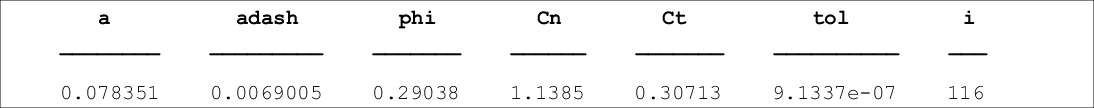
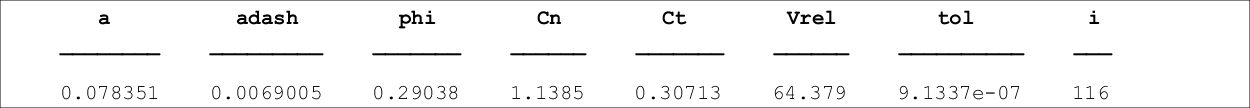
Add Vrel output to s1 testing

diff --git a/main.m b/main.m
@@ -31,9 +31,9 @@ init_V0=20;
 init_theta=0.0733;
 init_R=19.5;
 
-[a, adash, phi, Cn, Ct, tol, i]=WTInducedCalcs(init_a,init_adash,init_V0,w,init_R,init_theta,1,3);
+[a, adash, phi, Cn, Ct,Vrel, tol, i]=WTInducedCalcs(init_a,init_adash,init_V0,w,init_R,init_theta,1,3);
 %s1singletable=table(a, adash, phi, Cn, Ct, tol, i);
-statustablematrix([a, adash, phi, Cn, Ct, tol, i],{'a', 'adash', 'phi', 'Cn', 'Ct', 'tol', 'i'},'status/s1_singlevalidation.png','figure');
+statustablematrix([a, adash, phi, Cn, Ct,Vrel, tol, i],{'a', 'adash', 'phi', 'Cn', 'Ct','Vrel', 'tol', 'i'},'status/s1_singlevalidation.png','figure');
 
 
 %% Section 2 Testing

diff --git a/WTInducedCalcs.m b/WTInducedCalcs.m
@@ -1,4 +1,4 @@
-function [a_out, adash_out, phi_flow, Cn, Ct,curr_tol, i] = WTInducedCalcs(a, adash, V0, omega, y, theta, Chord, B)
+function [a_out, adash_out, phi_flow, Cn, Ct,Vrel,curr_tol, i] = WTInducedCalcs(a, adash, V0, omega, y, theta, Chord, B)
 %1: SINGLE ELEMENT: use an iterative solution to find the values of a,
 %adash, phi, Cn and Ct at a particular radius.
 
